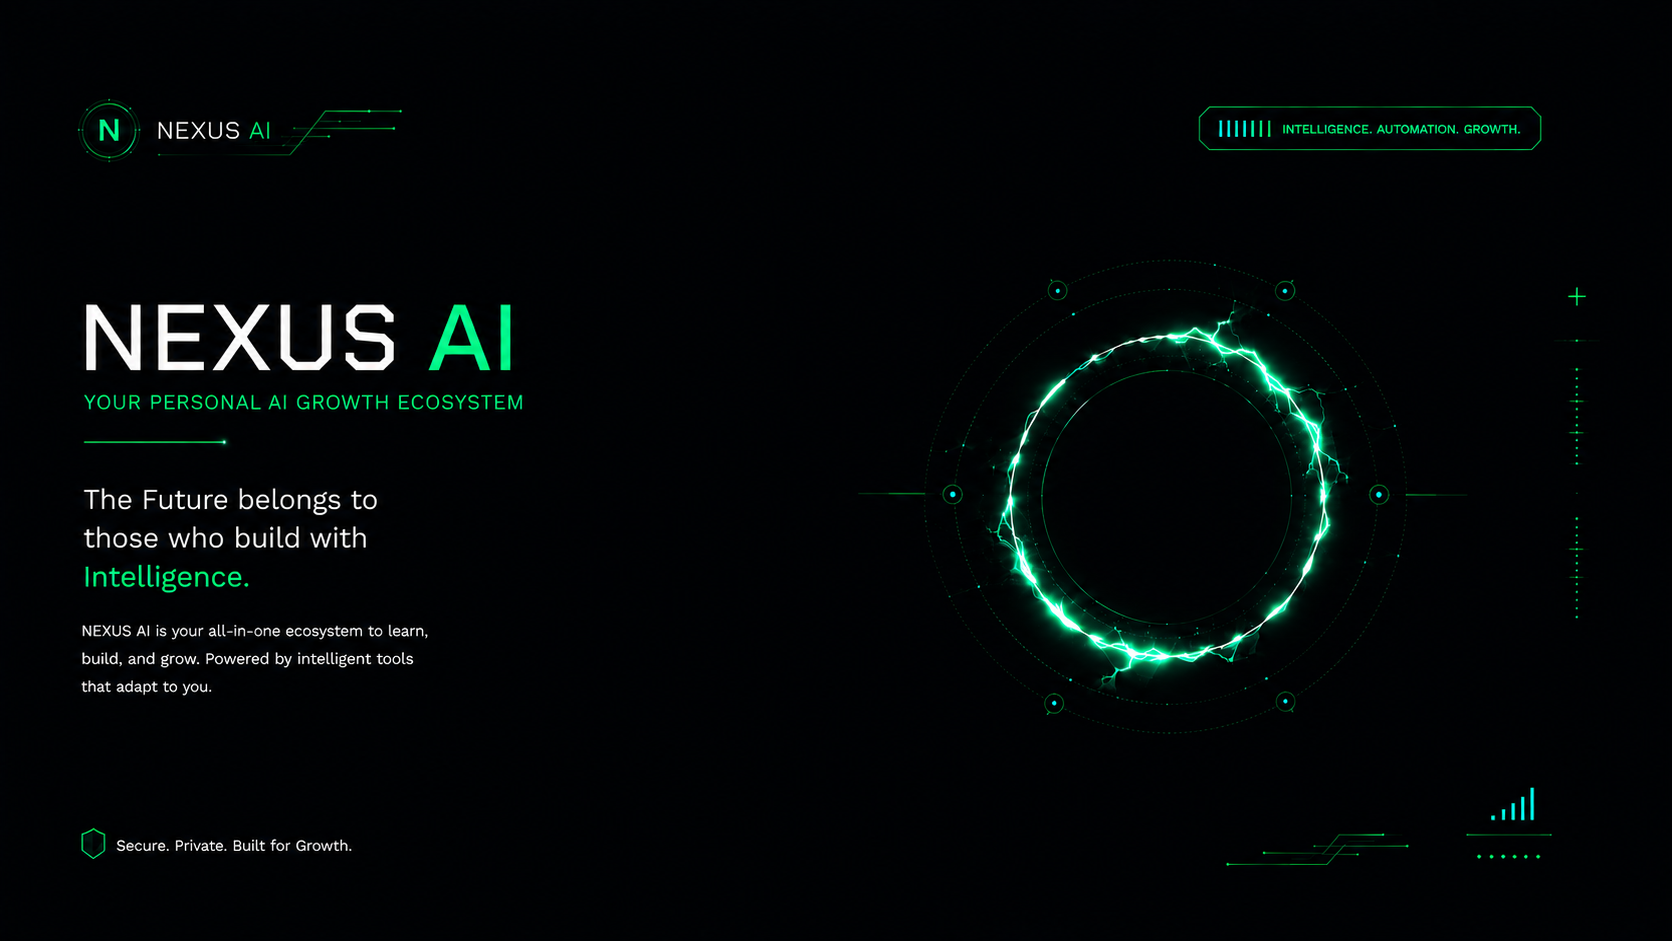
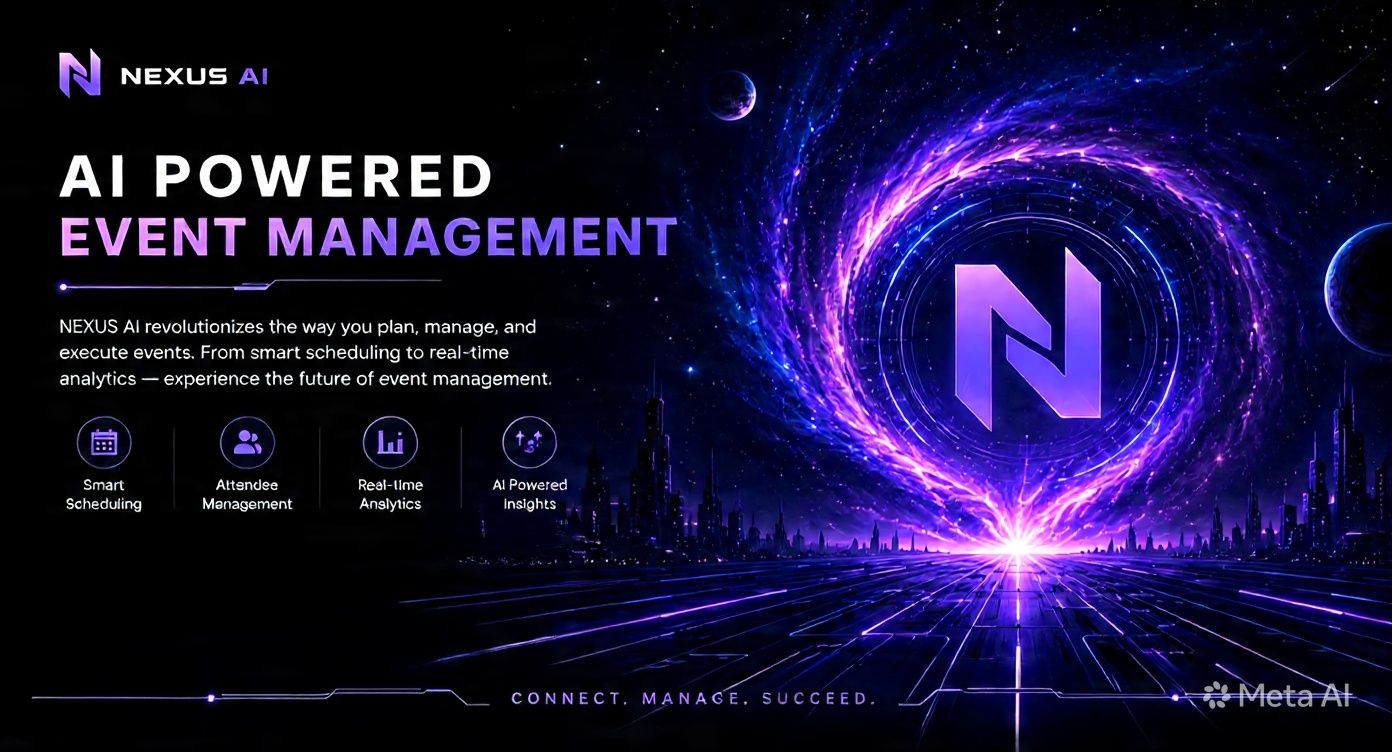
initial commit

diff --git a/src/app/globals.css b/src/app/globals.css
@@ -1,54 +1,91 @@
-* {
-  margin: 0;
-  padding: 0;
-  box-sizing: border-box;
-  font-family: Arial, sans-serif;
+*{
+  margin:0;
+  padding:0;
+  box-sizing:border-box;
+  font-family:Arial,sans-serif;
 }
 
-html, body {
-  width: 100%;
-  height: 100%;
-  background: black;
-  overflow: hidden;
-  border: none;
+html,
+body{
+  width:100%;
+  height:100%;
+  background:#000;
+  overflow:hidden;
 }
 
-/* MAIN WRAPPER */
-.landing-page {
-  position: relative;
-  width: 100vw;
-  height: 100vh;
-  overflow: hidden;
+.landing-page{
+  position:relative;
+  width:100vw;
+  height:100vh;
+  overflow:hidden;
 }
 
-/* BACKGROUND IMAGE */
-.landing-image {
-  object-fit: cover;
-  width: 100%;
-  height: 100%;
-  pointer-events: none;
+.landing-image{
+  object-fit:cover;
+  object-position:center;
+  pointer-events:none;
 }
 
-/* BUTTON (FULL CONTROL MODE) */
-.google-login {
-  position: absolute;
+/* GOOGLE BUTTON */
 
-  left: 95px;
-  top: 600px;
+.google-login{
+  position:absolute;
 
-  background: transparent;
-  border: none;
-  cursor: pointer;
+  left:7%;
+  bottom:10%;
+
+  background:none;
+  border:none;
+  cursor:pointer;
+
+  transition:.2s;
 }
 
-/* OPTIONAL HOVER EFFECT */
-.google-login:hover {
-  transform: scale(1.05);
-  transition: 0.2s ease;
+.google-login:hover{
+  transform:scale(1.05);
 }
-/* ========================= */
+
+.google-button-image{
+  width:320px;
+  height:auto;
+}
+
+/* TABLETS */
+
+@media (max-width:1024px){
+
+.google-login{
+left:6%;
+bottom:8%;
+}
+
+.google-button-image{
+width:270px;
+}
+
+}
+
+/* PHONES */
+
+@media (max-width:768px){
+
+.google-login{
+left:50%;
+bottom:8%;
+transform:translateX(-50%);
+}
+
+.google-login:hover{
+transform:translateX(-50%) scale(1.05);
+}
+
+.google-button-image{
+width:240px;
+}
+
+}
+
 /* DASHBOARD */
-/* ========================= */
 
 .dashboard-page{
   position:relative;

diff --git a/src/components/Hero.tsx b/src/components/Hero.tsx
@@ -18,7 +18,6 @@ export default function Hero() {
 
       console.log("Login successful!");
 
-      // Redirect to dashboard
       router.push("/dashboard");
     } catch (err) {
       console.error("Google Login Error:", err);
@@ -27,7 +26,6 @@ export default function Hero() {
 
   return (
     <main className="landing-page">
-      {/* Background */}
       <Image
         src={landing}
         alt="NEXUS AI Landing Page"
@@ -38,7 +36,6 @@ export default function Hero() {
         className="landing-image"
       />
 
-      {/* Google Login Button */}
       <button
         onClick={signInWithGoogle}
         className="google-login"
@@ -49,6 +46,7 @@ export default function Hero() {
           alt="Continue with Google"
           width={320}
           height={70}
+          className="google-button-image"
         />
       </button>
     </main>